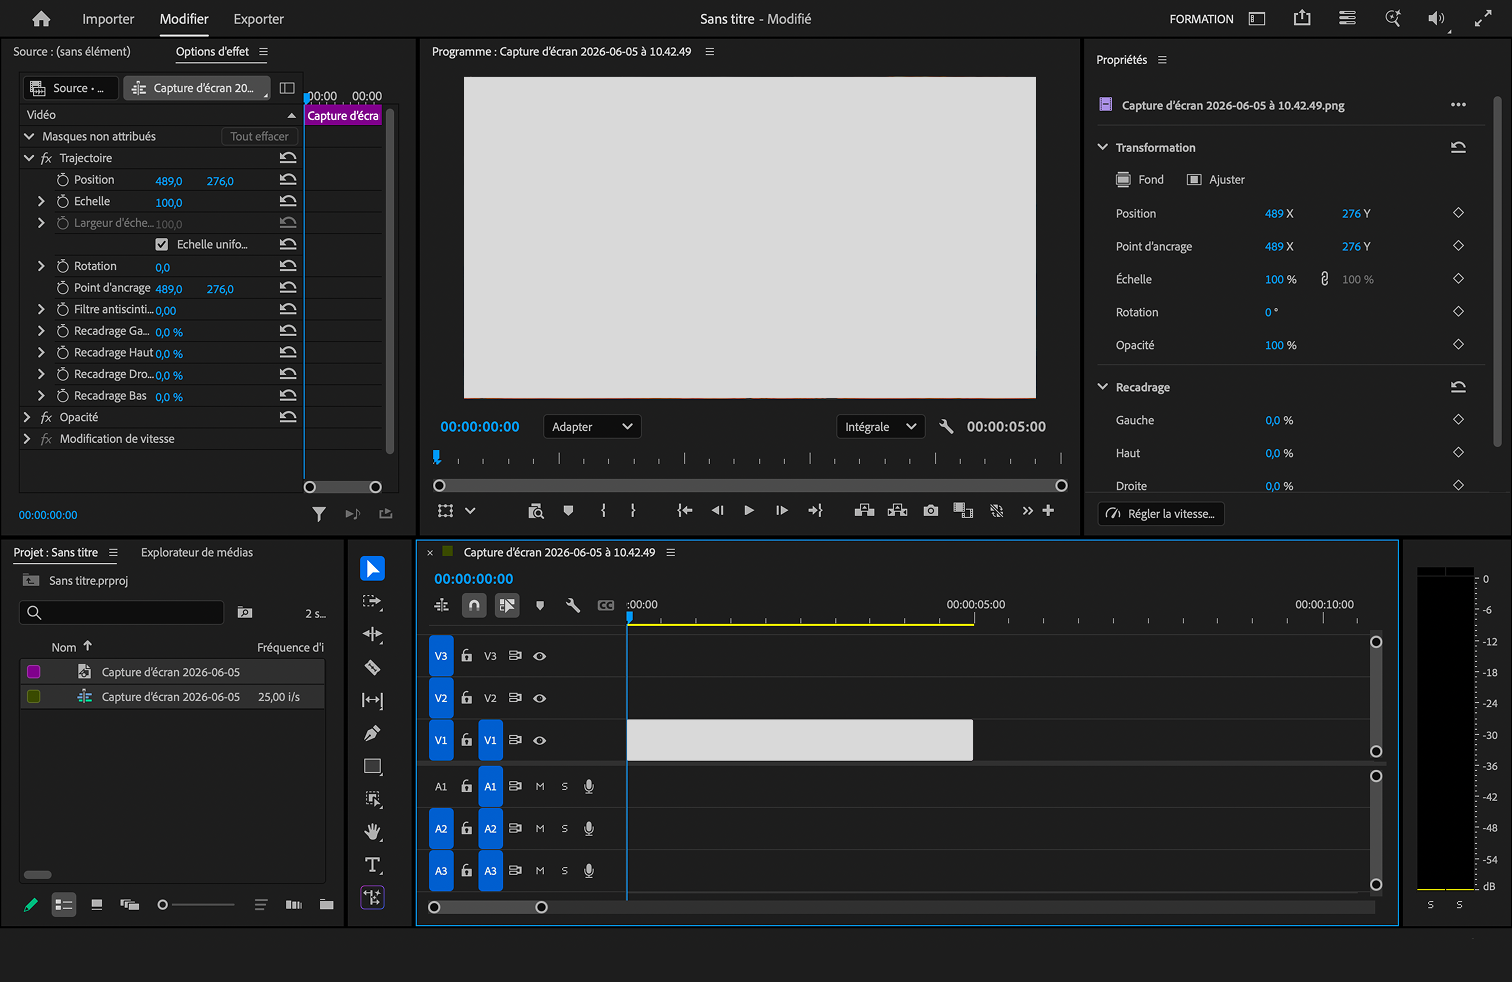
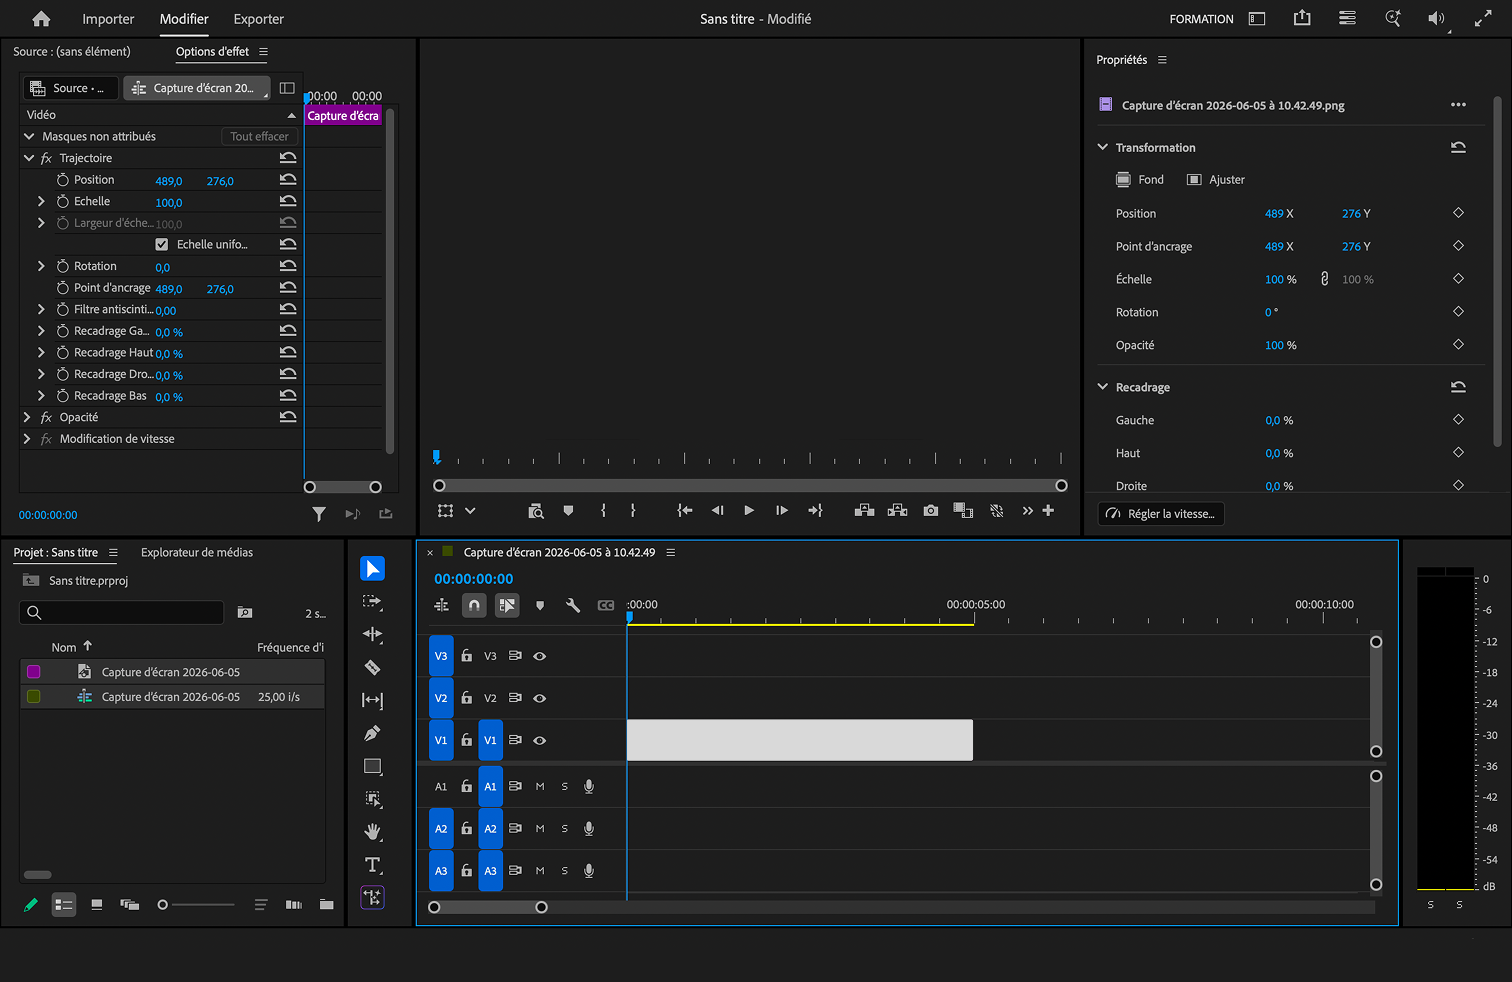
amelioration premiere pro

Changed region(s): [[0.2798, 0.0305, 0.6839, 0.4582]]

diff --git a/components/PremiereWindow.tsx b/components/PremiereWindow.tsx
@@ -1,28 +1,80 @@
 'use client';
+import { useEffect, useState } from 'react';
 import { Window } from './Window';
 import { AppIcon } from './icons/AppIcons';
 import { encodeSrc } from '@/utils/path';
 
 const PREMIERE_BG = '/premiere/Premierebg.png';
+const PREMIERE_MOBILE_BG = '/images/premiereprobgmobile.png';
+const PREMIERE_VIDEO = '/images/desktop/202606302120 (1).mp4';
+const PREMIERE_RATIO = 1512 / 982;
+const PREMIERE_MOBILE_RATIO = 604 / 830;
 
 export function PremiereWindow() {
+  const [isMobile, setIsMobile] = useState(false);
+
+  useEffect(() => {
+    const mq = window.matchMedia('(max-width: 767px)');
+    const update = () => setIsMobile(mq.matches);
+    update();
+    mq.addEventListener('change', update);
+    return () => mq.removeEventListener('change', update);
+  }, []);
+
   return (
     <Window
       id="premiere"
       title="Premiere Pro"
       icon={<AppIcon id="premiere" size={16} />}
       chrome="frameless"
-      defaultSize={{ width: 900, height: 585 }}
+      defaultSize={isMobile
+        ? { width: 604, height: 830 }
+        : { width: 900, height: Math.round(900 / PREMIERE_RATIO) }
+      }
+      fixedAspectRatio={isMobile ? PREMIERE_MOBILE_RATIO : PREMIERE_RATIO}
     >
       <div
-        className="h-full w-full"
+        className="relative h-full w-full overflow-hidden"
         style={{
-          backgroundImage: `url("${encodeSrc(PREMIERE_BG)}")`,
-          backgroundSize: 'cover',
-          backgroundPosition: 'center',
+          backgroundImage: `url("${encodeSrc(isMobile ? PREMIERE_MOBILE_BG : PREMIERE_BG)}")`,
+          backgroundSize: '100% 100%',
           backgroundColor: '#161221',
         }}
-      />
+      >
+        {/* Rectangle du Programme monitor — desktop */}
+        {!isMobile && (
+          <div
+            className="absolute overflow-hidden bg-black"
+            style={{ left: '30%', top: '10%', width: '36.9%', height: '30.2%' }}
+          >
+            <video
+              src={encodeSrc(PREMIERE_VIDEO)}
+              autoPlay
+              loop
+              muted
+              playsInline
+              style={{ display: 'block', width: '100%', height: '100%', objectFit: 'cover' }}
+            />
+          </div>
+        )}
+
+        {/* Rectangle du Programme monitor — mobile */}
+        {isMobile && (
+          <div
+            className="absolute overflow-hidden bg-black"
+            style={{ left: '27.8%', top: '9%', width: '70%', height: '45%' }}
+          >
+            <video
+              src={encodeSrc(PREMIERE_VIDEO)}
+              autoPlay
+              loop
+              muted
+              playsInline
+              style={{ display: 'block', width: '100%', height: '100%', objectFit: 'cover' }}
+            />
+          </div>
+        )}
+      </div>
     </Window>
   );
 }

diff --git a/components/Desktop.tsx b/components/Desktop.tsx
@@ -125,6 +125,7 @@ const STATIC_PRELOAD_IMAGES = [
   '/Photoshop/Photoshopbg.png',
   '/Photoshop/imagephotoshop.png',
   '/premiere/Premierebg.png',
+  '/images/premiereprobgmobile.png',
 ] as const;
 
 const SITE_PRELOAD_IMAGES = Array.from(